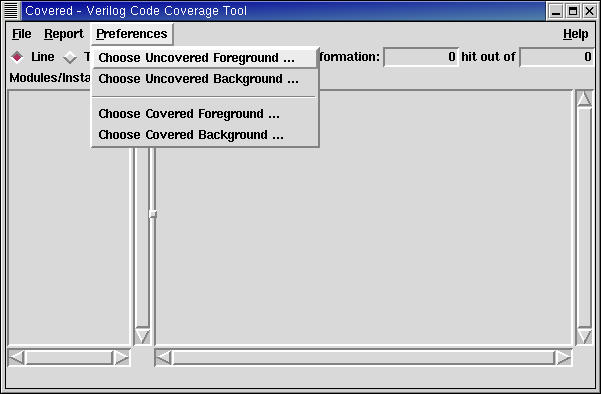
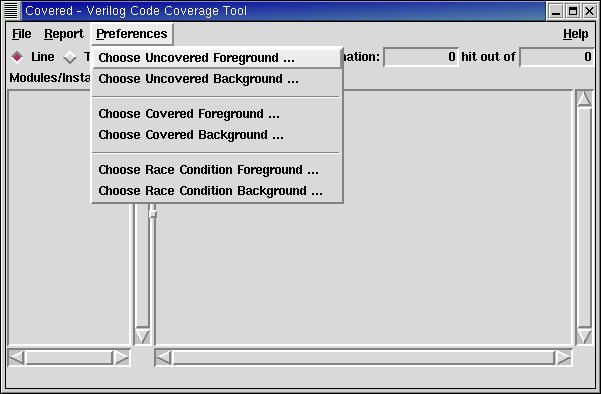
Updating documentation for changes related to race condition checking.

Changed region(s): [[0.1498, 0.0914, 0.599, 0.5178]]

diff --git a/doc/gui/pref_menu.html b/doc/gui/pref_menu.html
@@ -35,6 +35,12 @@
 	<li><p><h3>Choose Covered Background...</h3></p>
 	<p>Allows the user to specify the background color to use for logic that is fully covered in the logic window.  To view highlighted text, this color value should not be set to the same value as the "Covered Foreground" color.  Additionally, to help distinguish covered logic from uncovered logic (when both information is viewed together), it is important that this color be different from the "Uncovered Background" color.</p>
 	</li>
+	<li><p><h3>Choose Race Condition Foreground...</h3></p>
+	<p>Allows the user to specify the foreground color to use for logic that was found to contain a potential race condition and was, therefore, eliminated from coverage consideration by Covered.  Figure 2. shows what the color selection window looks like.</p>
+	</li>
+	<li><p><h3>Choose Race Condition Background...</h3></p>
+	<p>Allows the user to specify the background color to use for logic that was found to contain a potential race condition and was, therefore, eliminated from coverage consideration by Covered.  To view highlighted text, this color value should not be set to the same value as the "Race Condition Foreground" color.  Additionally, to help distinguish this type of logic from covered and uncovered logic (when either of these pieces of information are viewed together), it is important that this color be different from the other background colors.</p>
+	</li>
 </ul>
 
 <div align="center">

diff --git a/doc/gui/report_menu.html b/doc/gui/report_menu.html
@@ -35,6 +35,9 @@
 	<li><p><h3>Show Covered</h3></p>
 	<p>When the square to the left of this option is selected, all covered lines, toggles, logic, and FSM states/arcs within the file viewer window will be highlighted for the user to quickly see what code was monitored by Covered and determined to be fully covered.  This option is useful for the user of Covered to understand what logic was monitored during simulation.  This option may be selected along with the "Show Uncovered" menu option to see both covered and uncovered logic within the same file.</p>
 	</li>
+	<li><p><h3>Show Race Conditions</h3></p>
+	<p>When the square to the left of this option is selected, all logic lines that were found to contain a potential race condition and was, therefore, eliminated from coverage consideration by Covered will be highlighted by the colors as selected in the preference menu.  This option is useful for the user of Covered to understand what logic was not considered for coverage information due to a detected potential race condition situation.  Please see the User's Guide for more information on what Covered looks for in logic to consider it to be a possible race condition.</p>
+	</li> 
 </ul>
 
 </body>
